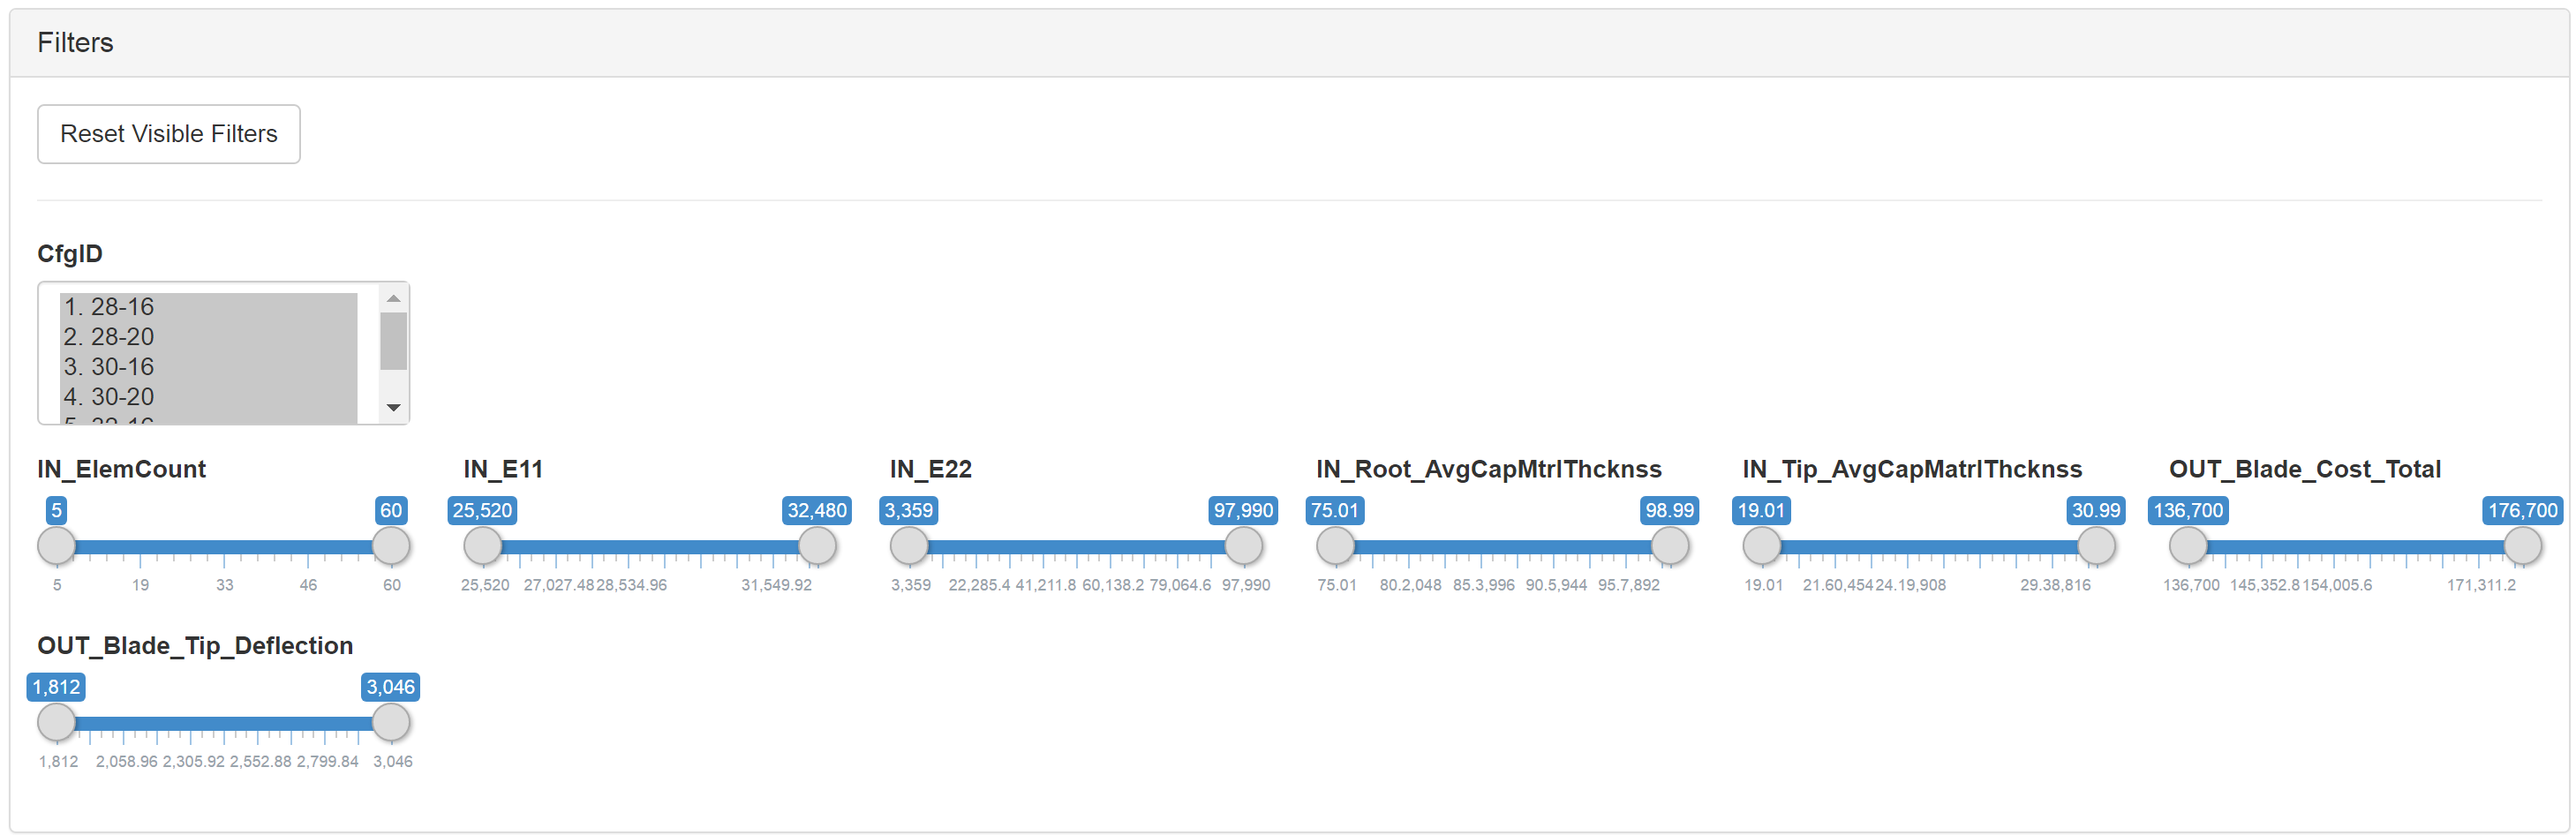
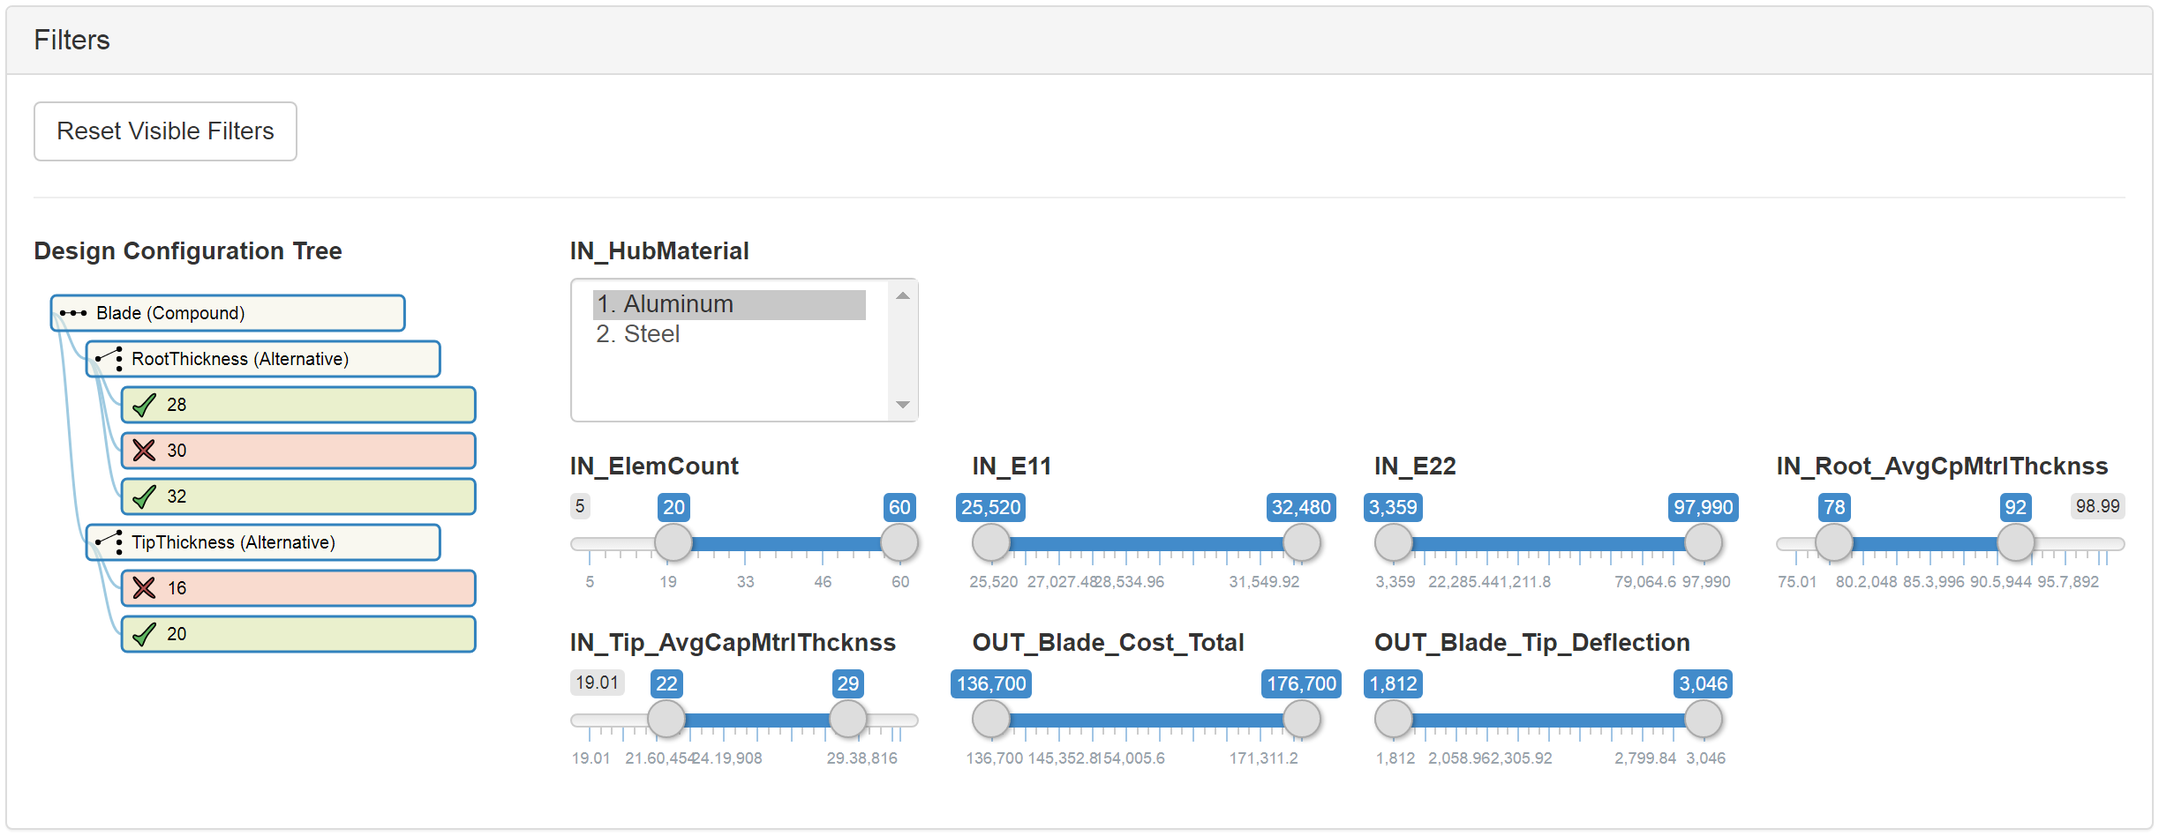
OPENMETA-241 Added documentation for the new design tree configuration filtering feature added in OPENMETA-53 and OPENMETA-249.

diff --git a/docs/visualizer/framework.rst b/docs/visualizer/framework.rst
@@ -25,34 +25,59 @@ For example, the "Histogram.R" example tab below requests this footer.
 Filters
 -------
 
-The Filters panel is the first panel in the Visualizer footer.
+The Filters panel is the first panel in the Visualizer footer. This panel
+allows for filtering on design configuration decisions, enumerated
+variables, and continuous variables. Tabs that use the "Filtered" dataset
+will respond to changes in these filters.
 
 .. image:: images/filters.png
    :alt: Filters Panel of Visualizer Footer
-   :width: 1459px
+   :width: 1223px
 
--  **View All Filters:** This selects between displaying either filters
+.. -  **View All Filters:** This selects between displaying either filters
    for every variable and classification or just filters for those
    variables currently "selected" in the open tab.
 
 -  **Reset Visible Filters:** This button will return the visible
-   filters to their original state, i.e. the full range is selected.
+   filters to their original state, i.e. the full ranges are selected and
+   all discrete choices are included.
 
--  **Filters:** These filters exclude from the "Filtered" dataset data
-   points that fall outside of the ranges specified for any of the
-   variable. Be careful not to exclude all the points in your dataset.
+-  **Design Configuration Tree**: This section displays a tree representing
+   the Design Container hierarchy present in the OpenMETA model.
+   Clicking on a component will toggle it between the included
+   ( |INCLUDED_STATE| ) and excluded ( |EXCLUDED_STATE| ) states. Setting a
+   component to the excluded state will filter out any configurations
+   that included that component from the "Filtered" dataset.
+   
+-  **Enumerated Select Boxes:** These filters exclude from the "Filtered" dataset
+   data points that for the given variable have a value not in the selected
+   options. You can use :kbd:`Shift` to select contiguous options,
+   :kbd:`Control` to select or deselect individual options, and :kbd:`Control-a`
+   after clicking one of the options to select all options.
+   
+-  **Numeric Sliders:** These filters exclude from the "Filtered" dataset data
+   points that for the given variable have a value that falls outside of the
+   ranges specified by the slider.
 
 .. image:: images/filter_exact_entry.png
    :alt: Exact Entry
    :width: 408px
 
--  **Exact Entry Window:** When a slider is 'double-clicked', a new
+-  **Exact Entry Window:** When a numeric slider is 'double-clicked', a new
    window opens up allowing the user to enter an exact range for the
    filter. The window shows the name of the variable along with text
    fields for minimum and maximum range. The 'apply' button applies the
    new values set for the filter; if either or both of the fields are
    left blank or containing non-numeric numbers, they are ignored when
    this button is clicked.
+   
+.. |INCLUDED_STATE| image:: images/design_tree_included_state.png
+   :alt: Included State
+   :width: 26px
+
+.. |EXCLUDED_STATE| image:: images/design_tree_excluded_state.png
+   :alt: Included State
+   :width: 26px
 
 Coloring
 --------
@@ -61,15 +86,17 @@ Coloring
    :alt: Coloring Panel of Visualizer Footer
    :width: 1459px
 
-The *Coloring* panel allows us to apply live and saved colorings to the
-data. This information is passed to the tab as an additional column in the
-data in the ``data$Colored`` data frame. The "Source" can take one of
-three options:
+The Coloring panel allows us to apply live and saved colorings to the
+data. This information is passed to all the tabs as an additional column
+in the data in the ``data$Colored`` data frame. The "Source" can take one
+of three options:
 
-1. **None:** This will assign "black" to the added column in *Colored*.
-2. **Live:** This will use the "Live" options that are present here in
-   the Coloring Panel to assign the added column in *Colored*.
-3. <Saved Colorings>: Different desirable coloring schemes can be saved
+1. **None:** This will assign ``black`` to the **color** column in the
+   ``data$Colored`` data frame. The Explore tab, for example, applies
+   this color directly to the plotted points.
+2. **Live:** This will use the "live" options that are present here in
+   the Coloring panel to assign the **color** column.
+3. **<Saved Colorings>**: Different desirable coloring schemes can be saved
    using the "Add Current 'Live' Coloring" button. These colorings will
    be persisted across the live of the session and can be applied by
    selecting them here in the "Source" select input.
